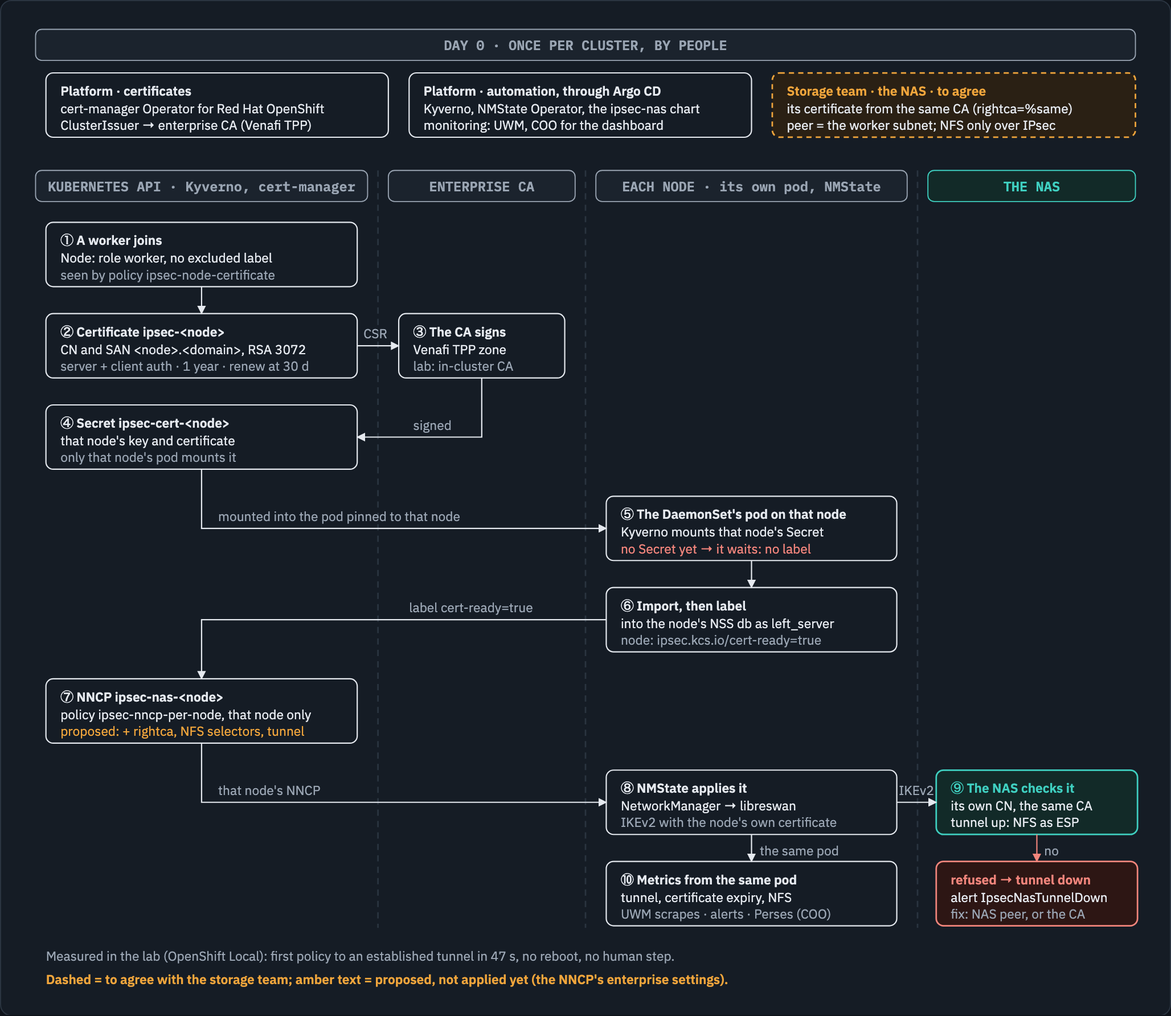
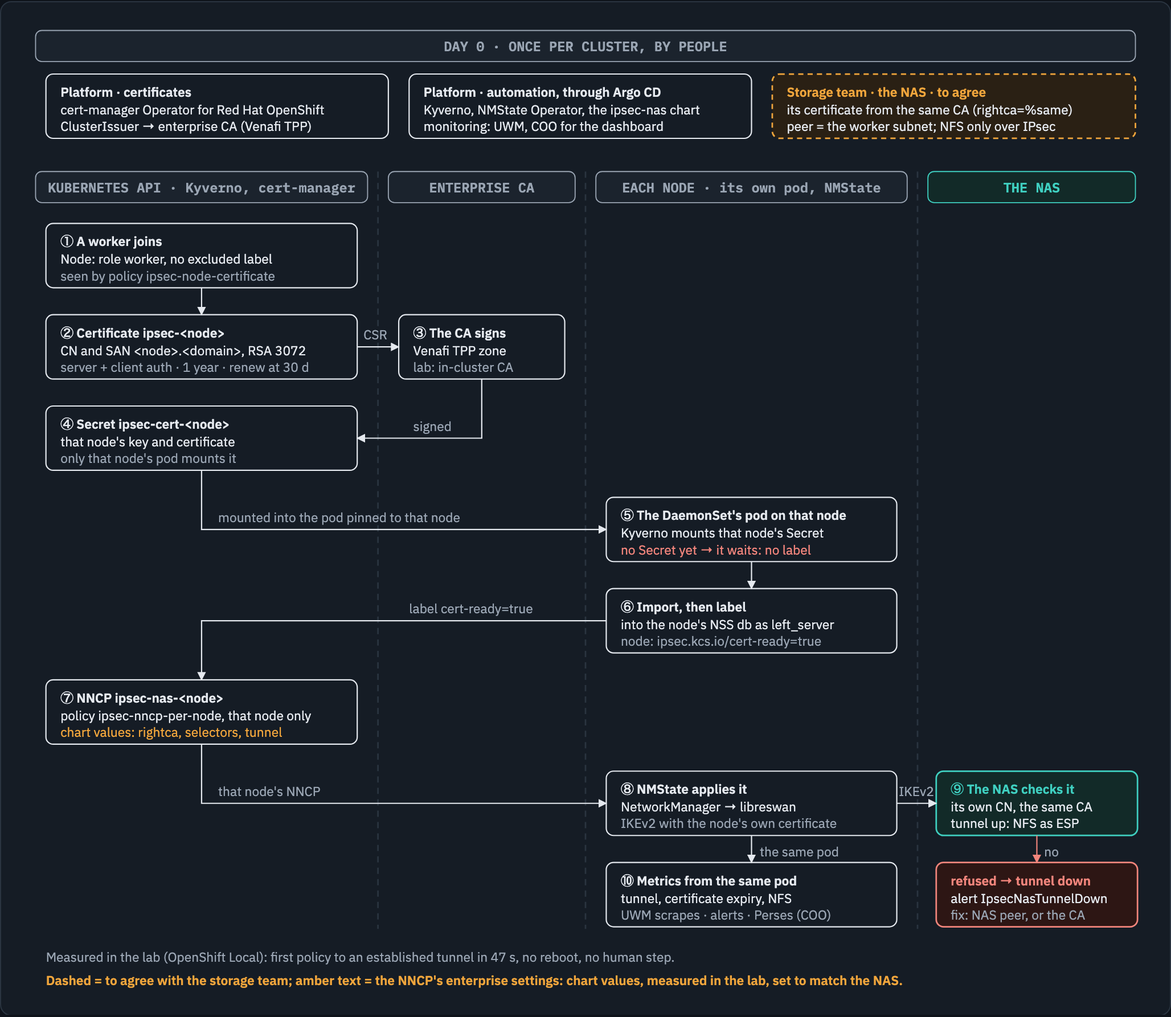
rightca '%same' measured as enforced; the OpenShift versions that carry it
Evidence 63: on CRC 4.22.7, with rightca '%same' set through the chart, the node
refused a NAS certificate from a second CA it also trusted, and accepted the same
certificate once rightca was removed; libreswan's connection lists the CA on both
sides only with it. The lab was restored and NFS checked from three namespaces.

Doc 70 records which releases carry rightca and the port selectors: nmstate 2.2.56 /
2.2.57 and NetworkManager-libreswan 1.2.27 / 1.2.29, i.e. OpenShift 4.19.22, 4.20.11,
4.21 or later (handler images from the Red Hat catalog, node plugin from the release
pages). Red Hat's ONTAP article still calls rightca unsupported; its request
RHEL-114237 is closed.

Docs 70, 71, 72, the charts' READMEs and values comments, docs/README, the onboarding
figure and three deck slides drop "proposed / not tested" for the refined tunnel and
cite evidence 62 and 63.

diff --git a/docs/deck/option-b/slides/nncp.html b/docs/deck/option-b/slides/nncp.html
@@ -7,9 +7,9 @@
 </div>
 <div style="flex:1;display:flex;flex-direction:column;gap:24px">
 <div style="flex:1;display:flex;flex-direction:column;gap:12px;background:#FDFDFB;padding:32px;border:1px solid #DCD9CF;border-radius:16px"><h3 style="font-size:32px;font-weight:600;color:#A55A0B">Four settings added</h3><p style="font-size:28px;color:#3D4A57">rightca, the two NFS port selectors and tunnel mode, as in the enterprise standard.</p></div>
-<div style="flex:1;display:flex;flex-direction:column;gap:12px;background:#FDFDFB;padding:32px;border:1px solid #DCD9CF;border-radius:16px"><h3 style="font-size:32px;font-weight:600;color:#15202B">Measured in the lab</h3><p style="font-size:28px;color:#3D4A57">Against a NAS limited to NFS: tunnel up, NFS through it. Today's NNCP is refused there, and this one by a NAS without selectors: <b>they must match exactly</b>.</p></div>
+<div style="flex:1;display:flex;flex-direction:column;gap:12px;background:#FDFDFB;padding:32px;border:1px solid #DCD9CF;border-radius:16px"><h3 style="font-size:32px;font-weight:600;color:#15202B">Measured in the lab</h3><p style="font-size:28px;color:#3D4A57">Against a NAS limited to NFS: tunnel up, NFS through it; the selectors <b>must match the NAS's exactly</b>. <b>rightca</b> refused a NAS certificate from another CA.</p></div>
 </div>
 </div>
-<p style="position:absolute;left:128px;bottom:64px;width:1664px;font-size:24px;color:#5C6773">doc 70, Sample 2; evidence 62 · in amber: the four settings added to Option B's NNCP, now chart values</p>
-<aside>Option B's tunnel definition, refined with the four settings our Linux hosts use. It now exists as chart values and was measured on the lab cluster: a NAS limited to NFS refused today's NNCP (TS_UNACCEPTABLE) and accepted this one; a NAS without selectors refused this one. So the selectors must match the NAS exactly, which makes the storage team's answer the deciding input.</aside>
+<p style="position:absolute;left:128px;bottom:64px;width:1664px;font-size:24px;color:#5C6773">doc 70, Sample 2; evidence 62, 63 · in amber: the four settings added, now chart values · OpenShift 4.19.22, 4.20.11, 4.21 or later</p>
+<aside>Option B's tunnel definition, refined with the four settings our Linux hosts use. It now exists as chart values and was measured on the lab cluster: a NAS limited to NFS refused today's NNCP (TS_UNACCEPTABLE) and accepted this one; a NAS without selectors refused this one. So the selectors must match the NAS exactly, which makes the storage team's answer the deciding input. rightca '%same' is enforced: with it, the node refused a NAS certificate from a second CA it also trusted, and accepted that certificate once rightca was removed. Red Hat's ONTAP article still calls rightca unsupported in NMState, but its request is closed: the keys are in OpenShift 4.19.22, 4.20.11, 4.21 and later; we measured 4.22.</aside>
 </section>

diff --git a/docs/diagrams/option-b-workflow/source.html b/docs/diagrams/option-b-workflow/source.html
@@ -62,7 +62,7 @@ a { color: var(--remote); }
   <header>
     <div class="eyebrow">openshift-ipsec-nas · option B · 2026-10-07</div>
     <h1>How Option B gives every node its own certificate and tunnel</h1>
-    <p class="lede">OpenShift nodes run RHCOS, configured by pools, not one by one. Option B gives each node its own certificate from the enterprise CA and its own tunnel to the NAS, with cert-manager, Kyverno and one DaemonSet, and no step by hand. Solid boxes are shipped and measured in the lab; dashed boxes and amber text are proposed or still to agree.</p>
+    <p class="lede">OpenShift nodes run RHCOS, configured by pools, not one by one. Option B gives each node its own certificate from the enterprise CA and its own tunnel to the NAS, with cert-manager, Kyverno and one DaemonSet, and no step by hand. Solid boxes are shipped and measured in the lab; dashed boxes are still to agree; amber text marks settings chosen from the storage team&#x27;s answer.</p>
   </header>
   <section>
     <h2>Onboarding: from day 0 to a node's tunnel</h2>
@@ -120,7 +120,7 @@ a { color: var(--remote); }
 <rect x="30" y="640" width="300" height="62" rx="7" fill="none" stroke="currentColor" stroke-width="1.2"/>
 <text x="44" y="662" font-weight="600">⑦ NNCP ipsec-nas-&lt;node&gt;</text>
 <text x="44" y="679">policy ipsec-nncp-per-node, that node only</text>
-<text x="44" y="695" fill="var(--host)">proposed: + rightca, NFS selectors, tunnel</text>
+<text x="44" y="695" fill="var(--host)">chart values: rightca, selectors, tunnel</text>
 <rect x="570" y="728" width="280" height="62" rx="7" fill="none" stroke="currentColor" stroke-width="1.2"/>
 <text x="584" y="750" font-weight="600">⑧ NMState applies it</text>
 <text x="584" y="767">NetworkManager → libreswan</text>
@@ -148,7 +148,7 @@ a { color: var(--remote); }
 <path d="M985,790 V816" fill="none" stroke="var(--gap)" stroke-width="1.2" marker-end="url(#ah1)"/><text x="992" y="810" fill="var(--muted)">no</text>
 <path d="M710,790 V816" fill="none" stroke="currentColor" stroke-width="1.2" marker-end="url(#ah1)"/><text x="718" y="810" fill="var(--muted)">the same pod</text>
 <text x="30" y="912" fill="var(--muted)">Measured in the lab (OpenShift Local): first policy to an established tunnel in 47 s, no reboot, no human step.</text>
-<text x="30" y="934" fill="var(--host)" font-weight="600">Dashed = to agree with the storage team; amber text = proposed, not applied yet (the NNCP's enterprise settings).</text>
+<text x="30" y="934" fill="var(--host)" font-weight="600">Dashed = to agree with the storage team; amber text = the NNCP's enterprise settings: chart values, measured in the lab, set to match the NAS.</text>
 </g>
 </svg>
       </div>

diff --git a/docs/deck/option-b/slides/onboarding.html b/docs/deck/option-b/slides/onboarding.html
@@ -6,7 +6,7 @@
 <div style="flex:1;display:flex;flex-direction:column;gap:24px">
 <div style="display:flex;flex-direction:column;gap:12px;background:#FDFDFB;padding:32px;border:1px solid #DCD9CF;border-radius:16px"><h3 style="font-size:32px;font-weight:600;color:#15202B">Day 0, by people</h3><p style="font-size:28px;color:#3D4A57">Platform: cert-manager Operator and ClusterIssuer (Venafi TPP), Kyverno, NMState, the chart through Argo CD. Storage: the NAS's certificate and peer definition.</p></div>
 <div style="display:flex;flex-direction:column;gap:12px;background:#FDFDFB;padding:32px;border:1px solid #DCD9CF;border-radius:16px"><h3 style="font-size:32px;font-weight:600;color:#0E6F68">Every new worker, by itself</h3><p style="font-size:28px;color:#3D4A57">Certificate, Secret, import, label, NNCP, tunnel: ten steps, no person, no reboot, no ticket.</p></div>
-<p style="font-size:26px;line-height:1.4;color:#A55A0B">Dashed and amber in the figure: the storage team's side and the refined tunnel settings, still to agree.</p>
+<p style="font-size:26px;line-height:1.4;color:#A55A0B">Dashed in the figure: the storage team's side, still to agree. Amber: the refined tunnel settings, chart values set to match the NAS.</p>
 </div>
 </div>
 <p style="position:absolute;left:128px;bottom:64px;width:1664px;font-size:24px;color:#5C6773">doc 72, section 5</p>

diff --git a/docs/deck/option-b/slides/overview.html b/docs/deck/option-b/slides/overview.html
@@ -10,5 +10,5 @@
 </div>
 </div>
 <p style="position:absolute;left:128px;bottom:64px;width:1664px;font-size:24px;color:#5C6773">doc 00, Overview · as deployed in the lab today (transport mode, all traffic to the NAS IP)</p>
-<aside>The technical overview, as it runs in the lab: libreswan on each node, configured by NMState, authenticates to the NAS with the node's certificate. The refined tunnel definition proposed later in this deck changes the mode to tunnel and limits it to NFS, like the enterprise standard.</aside>
+<aside>The technical overview, as it runs in the lab: libreswan on each node, configured by NMState, authenticates to the NAS with the node's certificate. The refined tunnel definition later in this deck, chart values measured in the lab, changes the mode to tunnel, limits it to NFS and checks the NAS's CA, like the enterprise standard.</aside>
 </section>

diff --git a/docs/70-review-enterprise-linux-ipsec-config.md b/docs/70-review-enterprise-linux-ipsec-config.md
@@ -74,13 +74,54 @@ Our NNCP's libreswan settings are in [`manifests/option-b-per-node-certs/27-kyve
 | `leftrsasigkey`, `rightrsasigkey=%cert` | the same | **Yes** | `leftrsasigkey`, `rightrsasigkey` | yes |
 | `leftauth`, `rightauth=rsasig` | not set | Not settable: no NMState field, and the plugin does not write the keys. Every option's node key is RSA 3072, which the libreswan NAS accepted in every run; the reference NAS's acceptance is to confirm | — (only `authby`) | no |
 | `rightid=%fromcert` | `rightid: '%fromcert'` | **Yes** | `rightid` | yes |
-| `rightca=%same` | not set | **No**; could be added | `rightca` | yes |
-| `leftprotoport=tcp`, `rightprotoport=tcp/nfs` | not set: all traffic to the NAS's IP | **No**; could be added (`tcp/2049` avoids the name lookup) | `leftprotoport`, `rightprotoport` | yes |
+| `rightca=%same` | not set by default; chart value `ipsec.rightca: '%same'` | **Yes** with the chart value: the node refuses a NAS certificate from any other CA (measured, [evidence 63](evidence/crc/63-rightca-enforcement.txt)) | `rightca` | yes |
+| `leftprotoport=tcp`, `rightprotoport=tcp/nfs` | not set by default (all traffic to the NAS's IP); chart values `ipsec.leftprotoport`, `ipsec.rightprotoport` | **Yes** with the chart values (`tcp/2049` avoids the name lookup; measured, [evidence 62](evidence/crc/62-nfs-only-selectors.txt)) | `leftprotoport`, `rightprotoport` | yes |
 | no `type` (tunnel) | `type: transport` (`tunnel` where there is NAT) | **No** unless the NAS accepts transport mode from these peers | `type` | in use: the tunnel comes up with it (measured) |
 | no `ikev2` (libreswan's default) | `ikev2: insist` | Compatible when the NAS speaks IKEv2 (to confirm) | `ikev2` | yes |
 | `auto=start` | NetworkManager activates the connection the NNCP defines | Equivalent | — | — |
 
-None of the three settings marked "could be added" has been tried on a node yet.
+All three settings the reference adds to ours were applied to a node on CRC through the charts ([Sample 2](#sample-2--matching-the-enterprise-standard-measured-in-the-lab), [evidence 62](evidence/crc/62-nfs-only-selectors.txt), [evidence 63](evidence/crc/63-rightca-enforcement.txt)).
+
+### Which OpenShift versions carry `rightca` and the port selectors
+
+Two components must know a key before it reaches libreswan: **NMState** (the handler pod turns the NNCP into a NetworkManager connection) and the node's **NetworkManager-libreswan** plugin (it turns that connection into libreswan's configuration). Red Hat's article on IPsec with ONTAP ([7130948](https://access.redhat.com/articles/7130948), updated 2026-09-07, written for OpenShift 4.19) still says `rightca` "is not a supported parameter to use with nmstate" and cites the request [RHEL-114237](https://issues.redhat.com/browse/RHEL-114237). That request is **closed** (Done-Errata, 2026-05-19, fix version `rhel-10.2`); the nmstate change that resolves it is upstream commit [`891e18f4`](https://github.com/nmstate/nmstate/commit/891e18f41d2dbada961931631a15ea09678cce2a) (2025-11-18), first released in **nmstate 2.2.56**.
+
+| Component | First version with `rightca` | First version with `leftprotoport`/`rightprotoport` | Source |
+|---|---|---|---|
+| nmstate | 2.2.56 (commit `891e18f4`) | 2.2.57 (commit [`c8c94b75`](https://github.com/nmstate/nmstate/commit/c8c94b75), RHEL-107158) | nmstate git history |
+| NetworkManager-libreswan (RHEL 9) | 1.2.27-1 (RHEL-118819) | 1.2.29-1 (RHEL-130907) | [CentOS Stream 9 package changelog](https://gitlab.com/redhat/centos-stream/rpms/NetworkManager-libreswan/-/blob/c9s/NetworkManager-libreswan.spec) |
+
+The NMState handler's package in each release, read on 2026-10-08 from the rpm manifest of the newest `openshift4/ose-kubernetes-nmstate-handler-rhel9` image in the Red Hat container catalog:
+
+| OpenShift | nmstate in the handler | `rightca` and port selectors in NMState |
+|---|---|---|
+| 4.14, 4.15 | 2.2.39 | No |
+| 4.16 to 4.19 | 2.2.59 (el9_4) | Yes |
+| 4.20, 4.21 | 2.2.60 (el9_6.1) | Yes |
+| 4.22 | 2.2.60 (el9_8) | Yes; measured on CRC 4.22.7 |
+
+The NMState Operator is updated through OLM, apart from the cluster: the table shows the newest handler of each release, and a cluster that has not taken the update runs an older one (the command below shows which).
+
+The node's plugin comes with the OpenShift release (the RHCOS extensions). Its package in each z-stream, read on 2026-10-08 from the release pages of the 4-stable stream ([example: 4.19.49](https://amd64.ocp.releases.ci.openshift.org/releasestream/4-stable/release/4.19.49), *Extensions*); upstream NetworkManager-libreswan has `"rightca"` from tag 1.2.27 and `"leftprotoport"` from 1.2.29:
+
+| OpenShift | NetworkManager-libreswan | `rightca` | Port selectors |
+|---|---|---|---|
+| 4.19.0 to 4.19.18 | 1.2.24-1.el9 | No | No |
+| 4.19.19 to 4.19.21 | 1.2.27-2.el9_6 | Yes | No |
+| **4.19.22 and later** | 1.2.29-1.el9_6 | Yes | Yes |
+| 4.20.0 to 4.20.2 | 1.2.24-1.el9 | No | No |
+| 4.20.3 to 4.20.10 | 1.2.27-2.el9_6 | Yes | No |
+| **4.20.11 and later**, 4.21 | 1.2.29-1.el9_6 | Yes | Yes |
+| 4.22 | 1.2.30-1.el9 | Yes | Yes; **measured** on CRC 4.22.7 ([evidence 62](evidence/crc/62-nfs-only-selectors.txt), [63](evidence/crc/63-rightca-enforcement.txt)) |
+
+**So Sample 2 needs OpenShift 4.19.22, 4.20.11, 4.21 or later**; only 4.22 was measured. Red Hat's article was written for 4.19, whose early z-streams indeed lacked `rightca`. On a cluster, read both versions on one of its nodes before using Sample 2:
+
+```sh
+oc -n openshift-nmstate exec ds/nmstate-handler -- nmstatectl --version      # 2.2.56 or later
+oc debug node/<node> -- chroot /host sh -c 'strings /usr/libexec/nm-libreswan-service | grep -x -e rightca -e leftprotoport -e rightprotoport'
+```
+
+Both commands were run on CRC 4.22.7: `nmstatectl 2.2.60`, and the plugin printed all three keys.
 
 ## Each option against the reference
 
@@ -153,7 +194,7 @@ Measured on CRC: the NNCP `Available` 13 seconds after the policy, the NAS log `
 
 ### Sample 2 – Matching the enterprise standard (measured in the lab)
 
-The same NNCP with the three settings of the reference that ours lacks. Every field exists in NMState 2.2.60 on OpenShift 4.22 and in the node's NetworkManager-libreswan plugin ([setting by setting](#setting-by-setting-against-our-nncp)). NMState accepts it: on CRC, `nmstatectl gc` (which generates the configuration without applying it) turned its `desiredState` into a NetworkManager connection with `leftprotoport=tcp`, `rightca=%same`, `rightprotoport=tcp/2049` and `type=tunnel` among its `[vpn]` keys. It was then applied on OpenShift Local through the charts' new values: see *Measured in the lab* below.
+The same NNCP with the three settings of the reference that ours lacks. Every field exists in NMState and in the node's NetworkManager-libreswan plugin from OpenShift 4.19.22, 4.20.11 and 4.21 ([which versions](#which-openshift-versions-carry-rightca-and-the-port-selectors)). NMState accepts it: on CRC, `nmstatectl gc` (which generates the configuration without applying it) turned its `desiredState` into a NetworkManager connection with `leftprotoport=tcp`, `rightca=%same`, `rightprotoport=tcp/2049` and `type=tunnel` among its `[vpn]` keys. It was then applied on OpenShift Local through the charts' new values: see *Measured in the lab* below.
 
 ```yaml
 apiVersion: nmstate.io/v1
@@ -184,17 +225,28 @@ spec:
         type: tunnel                             # CHANGED: the reference's mode (libreswan's default)
 ```
 
-What changes with it: only TCP to port 2049 on the NAS goes through the tunnel; anything else to the NAS (`ping`, NFSv3's helpers) leaves the node in clear, and an IPsec-only NAS drops it. Whether to use it depends on the storage team's answers: if the NAS's connection for hosts is limited to TCP 2049, Sample 1 may be refused and Sample 2 needed ([finding 4](#findings)). In Option B it would go into the policy's template (`27-kyverno-nncp-per-node.yaml.tmpl`, or the chart's), not into each node's NNCP.
+What changes with it: only TCP to port 2049 on the NAS goes through the tunnel; anything else to the NAS (`ping`, NFSv3's helpers) leaves the node in clear, and an IPsec-only NAS drops it. Whether to use it depends on the storage team's answers: if the NAS's connection for hosts is limited to TCP 2049, Sample 1 may be refused and Sample 2 needed ([finding 4](#findings)). In Option B it is set once, as the chart values `ipsec.rightca`, `ipsec.leftprotoport`, `ipsec.rightprotoport` and `ipsec.type`, which the chart's Kyverno policy writes into every node's NNCP; no one edits a node's NNCP.
 
-**Measured in the lab** ([evidence 62](evidence/crc/62-nfs-only-selectors.txt)), on OpenShift Local through the charts' new values `ipsec.rightca`, `ipsec.leftprotoport` and `ipsec.rightprotoport` (tunnel mode, as the lab needs for its NAT), against the libreswan NAS:
+`rightca: '%same'` also works on its own: it was measured without port selectors, in tunnel mode (transport mode with it not measured). With it the node accepts the NAS only with a certificate from the CA that issued the node's own; without it, from any CA in the node's NSS database ([evidence 63](evidence/crc/63-rightca-enforcement.txt)).
+
+**Measured in the lab** ([evidence 62](evidence/crc/62-nfs-only-selectors.txt), [evidence 63](evidence/crc/63-rightca-enforcement.txt)), on OpenShift Local through the charts' new values `ipsec.rightca`, `ipsec.leftprotoport` and `ipsec.rightprotoport` (tunnel mode, as the lab needs for its NAT), against the libreswan NAS:
 
 | The NAS's connection | The node's NNCP | Result |
 |---|---|---|
 | NFS only (`leftprotoport=tcp/2049`, `rightprotoport=tcp`) | Sample 1 (all traffic to the NAS) | **Refused**: `TS_UNACCEPTABLE`; the IKE SA authenticates, no Child SA, no tunnel |
 | NFS only | **Sample 2** | **Tunnel up**, `[…/32/TCP===…/32/TCP/2049]`; NFS through it; a `ping` to the NAS goes outside the tunnel |
 | All traffic (no selectors) | Sample 2 | **Refused**: `TS_UNACCEPTABLE` |
+| Certificate from the node's CA | `rightca: '%same'` | **Tunnel up**; libreswan's connection lists the CA on both sides: `CAs: 'O=Enterprise POC, CN=Enterprise Root CA'...'O=Enterprise POC, CN=Enterprise Root CA'` (`'%any'` on the NAS's side without it) |
+| Certificate from **another CA**, which the node also trusts | `rightca: '%same'` | **Refused by the node**: `authentication failed: no certificate matched … 'CN=crc-nas.lab.internal, O=rightca test'` |
+| The same | no `rightca` | **Tunnel up**: `authenticated peer certificate … issued by 'CN=Other Lab Root CA'`, so `rightca` alone made the difference |
 
-The NAS narrowed the request in neither direction: **the NNCP's selectors must match the NAS's exactly**, so the storage team's answer decides which sample to use. Not measured: an enterprise NAS product, which may narrow differently; transport mode with port selectors.
+The NAS narrowed the request in neither direction: **the NNCP's selectors must match the NAS's exactly**, so the storage team's answer decides which sample to use. Not measured: an enterprise NAS product, which may narrow differently; transport mode with port selectors or `rightca`.
+
+Three behaviours the runs showed, for anyone repeating them:
+
+- **A changed NNCP leaves the node without a tunnel until the connection is restarted.** NetworkManager takes the new keys and removes libreswan's old connection without loading the new one; `nmcli connection down` then `up` loads it. Option B's cert-sync pod restarts the connection when it finds no tunnel; that path was not measured after an NNCP change.
+- **libreswan writes a distinguished name with `O=` first** (`O=Enterprise POC, CN=Enterprise Root CA`), the other way round from `openssl` and `certutil`. A `rightca` written as an explicit name in the wrong order matches nothing; `%same` avoids the question.
+- **pluto caches its root certificates**: a CA added to the NSS database while it runs is used only after `ipsec whack --rereadcerts`.
 
 ### The NAS side for both samples (`uniqueids=yes`)
 
@@ -220,13 +272,13 @@ conn workers
     auto=add
 ```
 
-On the NAS, `ipsec trafficstatus` then lists one tunnel per node, each with its own `id='CN=<node>.<NODE_DOMAIN>'`. For Sample 2 the NAS's connection would carry the matching `type=tunnel` and port selectors (`leftprotoport=tcp/2049`, `rightprotoport=tcp`, the NAS being `left` there); not tested.
+On the NAS, `ipsec trafficstatus` then lists one tunnel per node, each with its own `id='CN=<node>.<NODE_DOMAIN>'`. For Sample 2 the NAS's connection carries the matching `type=tunnel` and port selectors (`leftprotoport=tcp/2049`, `rightprotoport=tcp`, the NAS being `left` there); measured in the lab ([evidence 62](evidence/crc/62-nfs-only-selectors.txt), section 2).
 
 ## Findings
 
 1. **Option B is the option that matches the enterprise standard.** The standard gives every host its own certificate and identity; Option B gives every node its own certificate from the same CA, and it worked against a libreswan NAS on its default settings. It is already our standard ([docs/README.md](README.md)).
 2. **Options A and C need the NAS to accept one identity from many peers** (`uniqueids=no`). The standard has no case of hosts sharing an identity, so the NAS may not allow it today. Measured against libreswan only; another NAS product has its own setting, or none (issue #34).
-3. **Three settings of the standard are not in our NNCP: `rightca=%same`, the NFS port selectors, and tunnel mode.** All three exist in NMState 2.2.60 and the node's plugin on OpenShift 4.22, so any option can carry them; they were not tested.
+3. **The three settings of the standard our NNCP lacked, `rightca=%same`, the NFS port selectors and tunnel mode, work on OpenShift.** They are chart values in both charts, empty by default, and were measured on CRC 4.22.7: `rightca: '%same'` refuses a NAS certificate from another CA and accepts one from the node's own ([evidence 63](evidence/crc/63-rightca-enforcement.txt)); the selectors carry NFS only ([evidence 62](evidence/crc/62-nfs-only-selectors.txt)). Red Hat's article on ONTAP still calls `rightca` unsupported in NMState; its request RHEL-114237 is closed, and the NMState and node plugin support it from OpenShift 4.19.22, 4.20.11 and 4.21 ([which versions](#which-openshift-versions-carry-rightca-and-the-port-selectors)).
 4. **The port selectors must match the NAS's exactly.** Measured against the lab's libreswan NAS ([evidence 62](evidence/crc/62-nfs-only-selectors.txt)): a NAS limited to TCP 2049 refused the node's all-traffic request (`TS_UNACCEPTABLE`), and a NAS without selectors refused the node's NFS-only request. Which one to use is the storage team's answer.
 5. **`leftauth`/`rightauth=rsasig` cannot be set from OpenShift** (no NMState field, not written by the plugin). With RSA keys on every option, authentication is by RSA signature anyway: on CRC the node signed with `3072-bit RSASSA-PSS with SHA2_512` ([evidence 17](evidence/crc/17-option-b-tunnel.txt)). Confirm the enterprise NAS accepts RSA-PSS signatures.
 
@@ -241,8 +293,11 @@ On the NAS, `ipsec trafficstatus` then lists one tunnel per node, each with its 
 
 ## What to test next
 
-On CRC and the lab NAS, with Option B's settings on a node (CRC runs Option C today; the test needs Option B there, or the C2 tunnel values):
+Done on CRC and the lab NAS: the NAS set like the standard's counterpart against today's NNCP (refused, [evidence 62](evidence/crc/62-nfs-only-selectors.txt) section 1); Sample 2 applied through the chart (tunnel up, NFS through it, section 2); a `ping` to the NAS leaves the node in clear (section 2; the lab NAS answered it, as its firewall drops only cleartext NFS); `rightca: '%same'` enforced ([evidence 63](evidence/crc/63-rightca-enforcement.txt)).
 
-1. The NAS's connection set like the standard's counterpart (port selectors `tcp/2049`, tunnel mode, `rightca=%same`), and the node's NNCP **unchanged**: does the tunnel come up? This answers finding 4.
-2. The NNCP with `leftprotoport: tcp`, `rightprotoport: tcp/2049`, `rightca: '%same'`, `type: tunnel`: does NMState accept it, does the tunnel come up, and do NFS writes go through it?
-3. Traffic to the NAS other than TCP 2049 (for example `ping`) with the port selectors: it leaves the node in clear, and an IPsec-only NAS should not answer it.
+Still to measure:
+
+1. Against the enterprise NAS, in the PoC ([doc 72](72-option-b-implementation-plan.md#6-the-engineering-poc), criterion 3).
+2. Transport mode with the port selectors and `rightca` (CRC needs tunnel mode for its NAT; a Lima worker does not).
+3. Option B's cert-sync pod restarting the connection by itself after an NNCP change (both runs restarted it by hand).
+4. A node on OpenShift 4.19.22 or 4.20.11 or later, to confirm the version table above on a real cluster.

diff --git a/docs/72-option-b-implementation-plan.md b/docs/72-option-b-implementation-plan.md
@@ -130,7 +130,7 @@ Every component is part of OpenShift or a Red Hat operator, except Kyverno and o
 </picture>
 <!-- markdownlint-enable MD033 -->
 
-*Figure 5. Onboarding, from day 0 to a node's tunnel. Dashed: the storage team's side, to agree. Amber: the refined tunnel settings, proposed.*
+*Figure 5. Onboarding, from day 0 to a node's tunnel. Dashed: the storage team's side, to agree. Amber: the refined tunnel settings, chart values measured in the lab, set to match the NAS.*
 
 ```text
 Day 0 (people): cert-manager Operator + ClusterIssuer (Venafi TPP) · Kyverno, NMState, the chart (Argo CD) · UWM, COO
@@ -141,7 +141,7 @@ Per node (automatic):
  ③ the CA signs (Venafi TPP zone)         → ④ Secret ipsec-cert-<node>
  ⑤ the DaemonSet's pod on that node       Kyverno mounts that node's Secret   (no Secret yet → it waits)
  ⑥ import into the node's NSS (left_server), label ipsec.kcs.io/cert-ready=true
- ⑦ Kyverno: NNCP ipsec-nas-<node>         [proposed: + rightca, NFS port selectors, tunnel mode]
+ ⑦ Kyverno: NNCP ipsec-nas-<node>         [chart values: + rightca, NFS port selectors, tunnel mode]
  ⑧ NMState → NetworkManager → libreswan → IKEv2 with the node's own certificate
  ⑨ the NAS checks the node's CN against the same CA → tunnel up, NFS as ESP   (refused → IpsecNasTunnelDown)
  ⑩ the same pod reports metrics → UWM → alerts, Perses dashboard
@@ -173,7 +173,7 @@ Measured in the lab: the first policy to an established tunnel in 47 seconds ([d
 
 ### The refined tunnel definition
 
-The NNCP Option B generates today, plus the enterprise standard's `rightca: '%same'`, `leftprotoport: tcp`, `rightprotoport: tcp/2049` and `type: tunnel` ([doc 70, Sample 2](70-review-enterprise-linux-ipsec-config.md#sample-2--matching-the-enterprise-standard-measured-in-the-lab)). Built as chart values in both charts (`ipsec.rightca`, `ipsec.leftprotoport`, `ipsec.rightprotoport`, with `ipsec.type`), empty by default, so today's output is unchanged. **Measured in the lab** ([evidence 62](evidence/crc/62-nfs-only-selectors.txt)): against a NAS limited to NFS, the refined NNCP brings the tunnel up (`[…/TCP===…/TCP/2049]`, NFS through it) and today's NNCP is refused (`TS_UNACCEPTABLE`); against a NAS without selectors, the refined NNCP is refused too. **The selectors must match the NAS's exactly**: set them from the storage team's answer.
+The NNCP Option B generates today, plus the enterprise standard's `rightca: '%same'`, `leftprotoport: tcp`, `rightprotoport: tcp/2049` and `type: tunnel` ([doc 70, Sample 2](70-review-enterprise-linux-ipsec-config.md#sample-2--matching-the-enterprise-standard-measured-in-the-lab)). Built as chart values in both charts (`ipsec.rightca`, `ipsec.leftprotoport`, `ipsec.rightprotoport`, with `ipsec.type`), empty by default, so today's output is unchanged. **Measured in the lab** ([evidence 62](evidence/crc/62-nfs-only-selectors.txt)): against a NAS limited to NFS, the refined NNCP brings the tunnel up (`[…/TCP===…/TCP/2049]`, NFS through it) and today's NNCP is refused (`TS_UNACCEPTABLE`); against a NAS without selectors, the refined NNCP is refused too. **The selectors must match the NAS's exactly**: set them from the storage team's answer. `rightca: '%same'` is enforced: the node refused a NAS certificate from another CA it also trusted, and accepted the same certificate once `rightca` was removed ([evidence 63](evidence/crc/63-rightca-enforcement.txt)). Red Hat's ONTAP article still calls `rightca` unsupported in NMState; its request (RHEL-114237) is closed, and these keys need OpenShift 4.19.22, 4.20.11, 4.21 or later ([doc 70, which versions](70-review-enterprise-linux-ipsec-config.md#which-openshift-versions-carry-rightca-and-the-port-selectors)).
 
 ## 6. The engineering PoC
 
@@ -181,7 +181,7 @@ The NNCP Option B generates today, plus the enterprise standard's `rightca: '%sa
 
 **Prerequisites** (owners in [doc 71](71-option-b-nas-team-engagement.md#what-is-left-for-us-to-specify)):
 
-- [ ] An enterprise non-production cluster with **at least three workers**, on OpenShift 4.19 or later.
+- [ ] An enterprise non-production cluster with **at least three workers**, on OpenShift 4.19.22, 4.20.11, 4.21 or later (the refined tunnel's keys, [doc 70](70-review-enterprise-linux-ipsec-config.md#which-openshift-versions-carry-rightca-and-the-port-selectors)); `nmstatectl --version` and the node plugin's keys read on one node.
 - [ ] The cert-manager Operator for Red Hat OpenShift, and a `ClusterIssuer` for the Venafi TPP zone with the node certificate profile.
 - [ ] Kyverno 1.19 or later: the open-source release, supported by platform engineering.
 - [ ] The NMState Operator; `routingViaHost` and IPsec `External` mode ([doc 00](00-prepare-the-cluster.md)).
@@ -194,7 +194,7 @@ The NNCP Option B generates today, plus the enterprise standard's `rightca: '%sa
 |---|---|---|---|
 | 1 | Every selected worker gets its **own** certificate from Venafi TPP, with server and client authentication | `oc get certificate -n kcs-ipsec`; `openssl x509` on each Secret: subject, issuer chain, EKU | With an in-cluster CA |
 | 2 | Every worker's tunnel is up **at the same time**, each under its own identity, with the NAS on `uniqueids=yes` | `ipsec trafficstatus` on the nodes; the NAS's status lists one `id` per node | Two stand-in workers (Lima); one OpenShift node |
-| 3 | The refined tunnel (tunnel mode, `rightca`, TCP 2049 only) is accepted by the enterprise NAS | NNCP `Available`, IKE SA established, NFS writes through the tunnel | Measured against the lab NAS set up the same way; refused when the two sides' selectors differ ([evidence 62](evidence/crc/62-nfs-only-selectors.txt)) |
+| 3 | The refined tunnel (tunnel mode, `rightca`, TCP 2049 only) is accepted by the enterprise NAS | NNCP `Available`, IKE SA established, NFS writes through the tunnel | Measured against the lab NAS set up the same way; refused when the two sides' selectors differ ([evidence 62](evidence/crc/62-nfs-only-selectors.txt)); `rightca` refuses a NAS certificate from another CA ([evidence 63](evidence/crc/63-rightca-enforcement.txt)) |
 | 4 | NFS is refused outside the tunnel | A mount with no tunnel fails; the NAS's cleartext counter rises | Measured against the lab NAS |
 | 5 | A new worker gets its certificate and tunnel with no human step | Scale a MachineSet up; time from Node to tunnel | Documented (doc 20, B.10); the lab cluster has one node |
 | 6 | A removed worker leaves nothing behind | Scale down; its Certificate, Secret and NNCP are gone; its certificate revoked at Venafi with the [runbook](73-runbook-node-certificate-revocation.md) | Documented (doc 20, B.11, B.13); revocation not run |

diff --git a/docs/71-option-b-nas-team-engagement.md b/docs/71-option-b-nas-team-engagement.md
@@ -12,7 +12,7 @@
 | The option that matches it | **Option B**: one certificate per node from the enterprise CA, imported on that node only | [doc 70, *Each option*](70-review-enterprise-linux-ipsec-config.md#each-option-against-the-reference) |
 | Why not A or C | Every node presents one identity, so the NAS must allow `uniqueids=no` for **all** its peers; with the default the nodes replace each other's tunnel (measured) | [doc 51](51-option-c-summary.md), [lab findings 4, 5](lab/lima-lab.md#8-what-the-lab-showed) |
 | Option B and `uniqueids` | Works with the NAS's default `uniqueids=yes`: two peers with their own certificates held two tunnels (measured) | [doc 70, *`uniqueids`*](70-review-enterprise-linux-ipsec-config.md#uniqueids-and-option-b) |
-| The tunnel definition we propose | Option B's NNCP plus the standard's `rightca=%same`, `leftprotoport: tcp`, `rightprotoport: tcp/2049`, `type: tunnel` ("Sample 2"). NMState 2.2.60 accepts it offline; **not yet applied to a node** | [doc 70, Sample 2](70-review-enterprise-linux-ipsec-config.md#sample-2--matching-the-enterprise-standard-measured-in-the-lab) |
+| The tunnel definition we propose | Option B's NNCP plus the standard's `rightca=%same`, `leftprotoport: tcp`, `rightprotoport: tcp/2049`, `type: tunnel` ("Sample 2"). Measured on the lab cluster through the chart: tunnel up, NFS only, and `rightca` refusing a NAS certificate from another CA ([evidence 62](evidence/crc/62-nfs-only-selectors.txt), [63](evidence/crc/63-rightca-enforcement.txt)); needs OpenShift 4.19.22, 4.20.11, 4.21 or later | [doc 70, Sample 2](70-review-enterprise-linux-ipsec-config.md#sample-2--matching-the-enterprise-standard-measured-in-the-lab) |
 | Measured where | Our lab (OpenShift Local and a libreswan NAS, where every tool is installed). **Not** on an enterprise cluster, **not** against the enterprise NAS | [docs/README.md](README.md) |
 | Enterprise clusters today | No Kyverno, no cert-manager integration with the enterprise CA | Operator, 2026-10-07 |
 
@@ -65,7 +65,7 @@ Node certificates come from the enterprise Venafi TPP through cert-manager's Ven
 
 | # | Item | What to decide or write | Owner | Status |
 |---|---|---|---|---|
-| 1 | The refined NNCP | The chart values `ipsec.rightca`, `ipsec.leftprotoport`, `ipsec.rightprotoport` (empty by default), set to match the NAS | Platform | Built; measured in the lab ([evidence 62](evidence/crc/62-nfs-only-selectors.txt)) |
+| 1 | The refined NNCP | The chart values `ipsec.rightca`, `ipsec.leftprotoport`, `ipsec.rightprotoport` (empty by default), set to match the NAS | Platform | Built; measured in the lab ([evidence 62](evidence/crc/62-nfs-only-selectors.txt), [`rightca`: evidence 63](evidence/crc/63-rightca-enforcement.txt)); the cluster's release must carry the keys ([doc 70](70-review-enterprise-linux-ipsec-config.md#which-openshift-versions-carry-rightca-and-the-port-selectors)) |
 | 2 | Venafi issuer | The chart's `clusterIssuer` value pointing at the Venafi `ClusterIssuer`, and its zone allowing the profile above | Platform | Open |
 | 3 | cert-manager | The cert-manager Operator for Red Hat OpenShift on enterprise clusters (channel, version, who operates it) | Platform | Open: not on enterprise clusters today |
 | 4 | Kyverno | Kyverno on enterprise clusters: version (1.19 or later) and its two OpenShift settings. The most popular policy engine for Kubernetes; we run the open-source release as-is and support it ourselves ([doc 72](72-option-b-implementation-plan.md#4-the-case-for-each-component)) | Platform | Support model decided |

diff --git a/charts/ipsec-nas-option-c-metrics/README.md b/charts/ipsec-nas-option-c-metrics/README.md
@@ -92,7 +92,7 @@ Off by default; with them the chart sets up Option C with **cert-manager and Kyv
 | `tunnel.enabled` / `variant` / `pools` | `false` / `c1` / `[worker]` | C1: NNCP `ipsec-nas-wildcard-<pool>`. C2: Kyverno policy `ipsec-nncp-wildcard-<pool>`, one NNCP per node, with Kyverno's two ClusterRoles (`kyvernoRBAC.create`). The same objects as `render.sh` (the chart test compares them) |
 | `nodeDomain`, `nas.fqdn`, `nas.ip`, `clusterIssuer` | – | As in Option B's chart |
 | `ipsec.type` / `left` / `right` | `transport` / node FQDN (C2) / `nas.fqdn` | As in Option B's chart. OpenShift Local: `tunnel`, `%defaultroute`, the NAS's IP |
-| `ipsec.rightca` / `leftprotoport` / `rightprotoport` | `""` | As in Option B's chart: `%same`, `tcp`, `tcp/2049` to match a NAS limited to NFS; the selectors must match the NAS's exactly |
+| `ipsec.rightca` / `leftprotoport` / `rightprotoport` | `""` | As in Option B's chart: `%same`, `tcp`, `tcp/2049` to match a NAS limited to NFS; the selectors must match the NAS's exactly; OpenShift 4.19.22, 4.20.11, 4.21 or later ([docs/70](../../docs/70-review-enterprise-linux-ipsec-config.md#which-openshift-versions-carry-rightca-and-the-port-selectors)) |
 | `prerequisites.skipCheck` / `kyvernoNamespace` | `false` / `kyverno` | The checks: NMState (tunnel), Kyverno 1.19 (C2), cert-manager (certificate) served; the `ClusterIssuer` exists; Kyverno does not ignore Nodes |
 
 **The chart never makes the MachineConfig.** It carries the private key and reboots its pool. `scripts/option-c-certificate.sh from-secret` builds each pool's MachineConfig from the certificate's Secret, with every check of the manual path, and you apply it.

diff --git a/charts/ipsec-nas/README.md b/charts/ipsec-nas/README.md
@@ -108,7 +108,7 @@ The ConfigMap may already hold other settings: read it first (`oc -n openshift-u
 | `ipsec.type` | `transport` | `tunnel` only when there is NAT between the nodes and the NAS |
 | `ipsec.left` | `""` | Empty means `<node>.<nodeDomain>` |
 | `ipsec.right` | `""` | Empty means `nas.fqdn` |
-| `ipsec.rightca` | `""` | `%same`: accept only a NAS certificate from the node certificate's own CA. Left out of the NNCP when empty |
+| `ipsec.rightca` | `""` | `%same`: accept only a NAS certificate from the node certificate's own CA; a NAS certificate from another CA is refused (measured, [evidence 63](../../docs/evidence/crc/63-rightca-enforcement.txt)). Left out of the NNCP when empty. With the port selectors, needs OpenShift 4.19.22, 4.20.11, 4.21 or later ([docs/70](../../docs/70-review-enterprise-linux-ipsec-config.md#which-openshift-versions-carry-rightca-and-the-port-selectors)) |
 | `ipsec.leftprotoport` / `rightprotoport` | `""` / `""` | `tcp` / `tcp/2049`: only NFS through the tunnel. **Must match the NAS's selectors exactly** (docs/70, Sample 2). Left out when empty |
 | `nodeSelector` | `node-role.kubernetes.io/worker: ""` | Which nodes get a certificate, a pod and a tunnel |
 | `tolerations` | `[]` | For the cert-sync DaemonSet |

diff --git a/docs/README.md b/docs/README.md
@@ -84,7 +84,7 @@ Supporting guides, in [`lab/`](lab/):
 
 | Prerequisite | Needed by | Installed by these docs? |
 |---|---|---|
-| OpenShift 4.19 or later on bare metal, vSphere, RHOSP or GCP, RHCOS nodes | All | No |
+| OpenShift 4.19 or later on bare metal, vSphere, RHOSP or GCP, RHCOS nodes (4.19.22, 4.20.11, 4.21 or later for the refined tunnel's `rightca` and port selectors: [doc 70](70-review-enterprise-linux-ipsec-config.md#which-openshift-versions-carry-rightca-and-the-port-selectors)) | All | No |
 | cert-manager, and the cluster's **existing** enterprise CA `ClusterIssuer` | B (A uses the same CA by hand) | No. Nothing here creates an issuer; `company-issuer-rnd` is a placeholder for its name |
 | Kyverno 1.19 or later, not filtering out Nodes (1.13 or later with the legacy policies) | A and B | Yes, with its two settings for OpenShift (00, Step 1.6) |
 | NMState Operator with an `NMState` instance | A and B | Yes (00, Step 1.5) |
